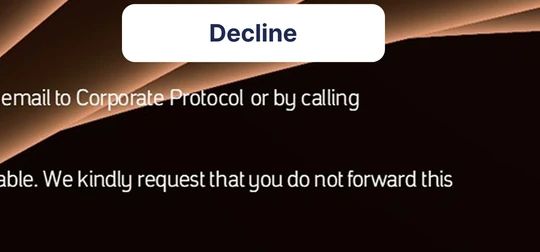
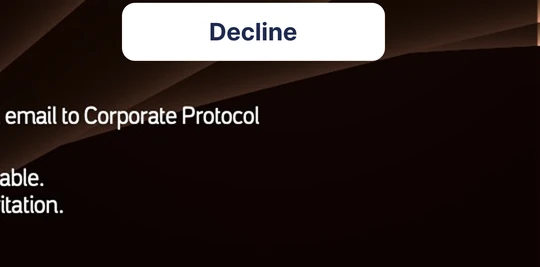
Updated deisgn

diff --git a/emailInvite.html b/emailInvite.html
@@ -212,7 +212,7 @@
         </tr>
         <tr>
             <td colspan="2" style="padding:0; line-height:0; font-size:0;">
-                <img id="excellenceName" width="560" alt="" style="display:block; width:100%; height:auto; aspect-ratio:1080 / 221; border:0; background:#140c09;" />
+                <img id="excellenceName" width="560" alt="" style="display:block; width:100%; height:auto; aspect-ratio:1080 / 126; border:0; background:#140c09;" />
             </td>
         </tr>
         <tr>
@@ -293,7 +293,7 @@
                 if (nameImage) {
                     var cardId = uniqueId || "guest";
                     nameImage.alt = name || "Guest";
-                    if (isAwardee) nameImage.style.aspectRatio = "1080 / 80";
+                    if (isAwardee) nameImage.style.aspectRatio = "1080 / 94";
                     nameImage.src = "/name-card/excellenceAwards/" + encodeURIComponent(cardId) + ".png?name=" + encodeURIComponent(name) + "&position=" + encodeURIComponent(position) + (isAwardee ? "&userType=Awardee" : "");
                 }
                 if (isAwardee) {
